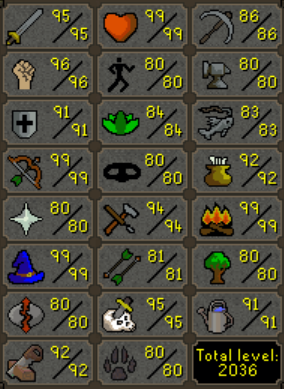
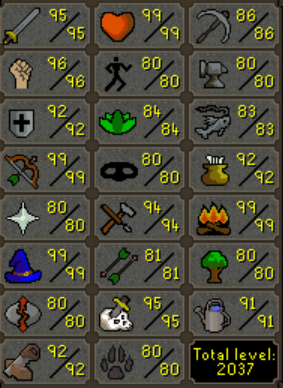
92 def

diff --git a/index.html b/index.html
@@ -17,6 +17,6 @@
   <span class="shrinkwrap">
     <img src="./imgs/homepage/personified-fear.jpg">
   </span>
-  <p>last updated 2025-05-08</p>
-  <p>latest updates: Photos added, Bookshelf update</p>
+  <p>last updated 2025-05-09</p>
+  <p>latest updates: OSRS levels, Photos added</p>
 </div>
